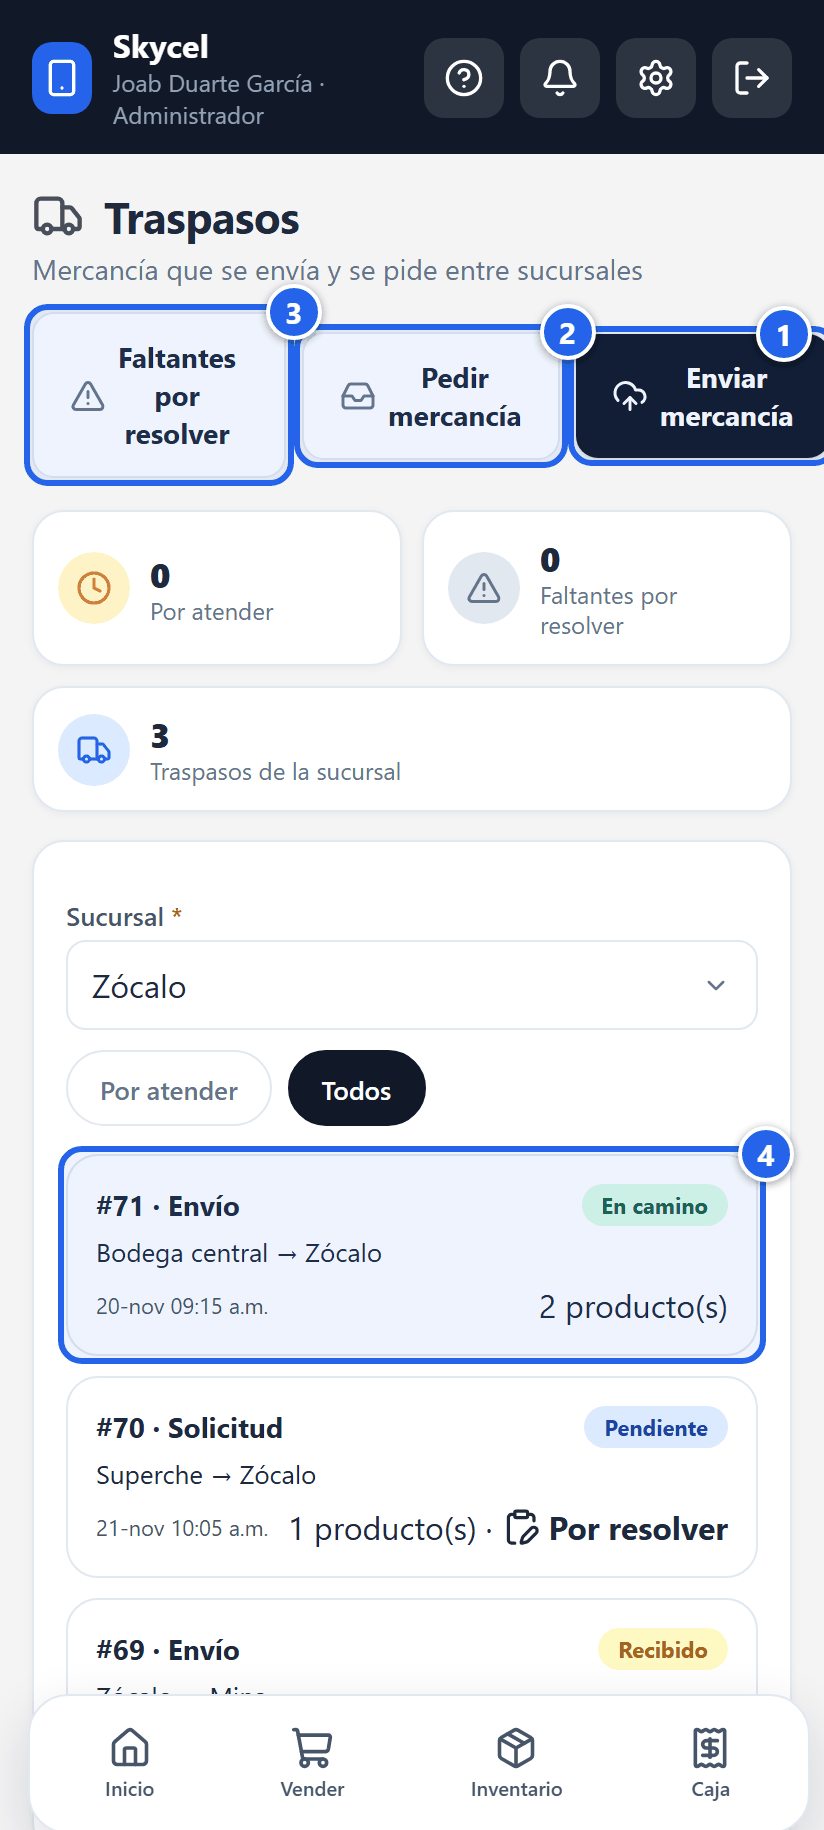
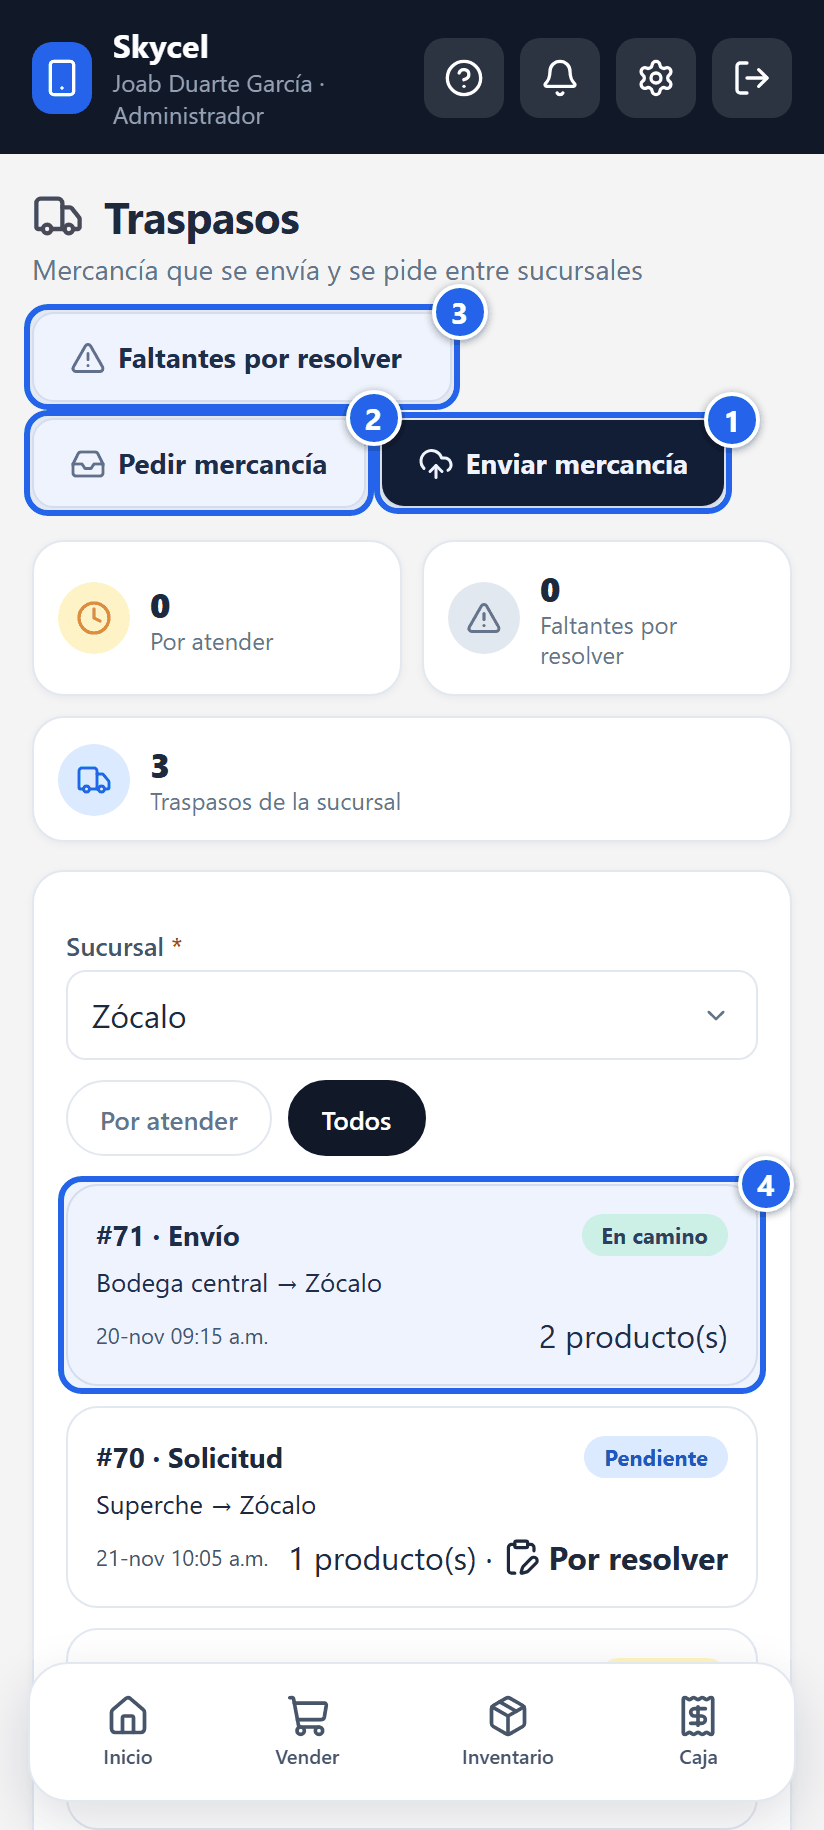
Web: las acciones de la cabecera se acomodan en varios renglones en pantallas angostas (el boton Enviar mercancia ya no se corta); captura de Traspasos actualizada

diff --git a/src/main/resources/static/app/css/app.css b/src/main/resources/static/app/css/app.css
@@ -728,7 +728,7 @@ h1 .ic { color: var(--oscuro); opacity: 0.75; }
 .pag-cab { display: flex; justify-content: space-between; align-items: flex-start; gap: 12px; flex-wrap: wrap; margin-bottom: 16px; }
 .pag-cab h1 { margin: 0; }
 .pag-sub { color: var(--gris-medio); font-size: 14px; margin-top: 2px; }
-.pag-acciones { display: flex; gap: 8px; align-items: center; }
+.pag-acciones { display: flex; gap: 8px; align-items: center; flex-wrap: wrap; max-width: 100%; }
 @media (min-width: 900px) { h1 > .ic { display: none; } }
 
 /* Indicadores horizontales */
@@ -928,7 +928,7 @@ h1 .ic { color: var(--oscuro); opacity: 0.75; }
 .ayuda-tema p, .ayuda-tema li, #ay-impresion p, #ay-impresion li { font-size: 14.5px; }
 .ayuda-tema li, #ay-impresion li { margin: 4px 0; }
 .ayuda-tema code, #ay-impresion code { background: var(--gris-claro); padding: 1px 6px; border-radius: 5px; font-size: 13px; }
-.ayuda-tema blockquote, #ay-impresion blockquote { margin: 14px 0; padding: 10px 14px; background: #fef3c7; border-left: 4px solid #f59e0b; border-radius: 6px; color: #78350f; font-size: 14px; }
+.ayuda-tema blockquote, #ay-impresion blockquote { margin: 14px 0; padding: 10px 14px; background: #fef3c7; border-left: 4px solid #f59e0b; border-radius: 6px; color: #78350f; font-size: 14px; }
 /* Pasos numerados en tarjetas, como en un tutorial */
 .ayuda-tema ol, #ay-impresion ol { list-style: none; counter-reset: paso; padding: 0; margin: 10px 0; }
 .ayuda-tema ol > li, #ay-impresion ol > li { counter-increment: paso; position: relative; background: #f8fafc; border: 1px solid var(--borde); border-radius: 12px; padding: 10px 14px 10px 52px; margin: 8px 0; }

diff --git a/src/main/resources/static/app/sw.js b/src/main/resources/static/app/sw.js
@@ -3,7 +3,7 @@
  * sin conexión; los datos (todo /api/...) siempre van a la red — nunca se sirven de la caché, para no mostrar
  * información vieja o mandar peticiones fuera de línea que parezcan haber funcionado.
  */
-const CACHE = 'skycel-app-v67';
+const CACHE = 'skycel-app-v68';
 const ARCHIVOS = [
   '/app', '/app/',
   '/app/index.html',
